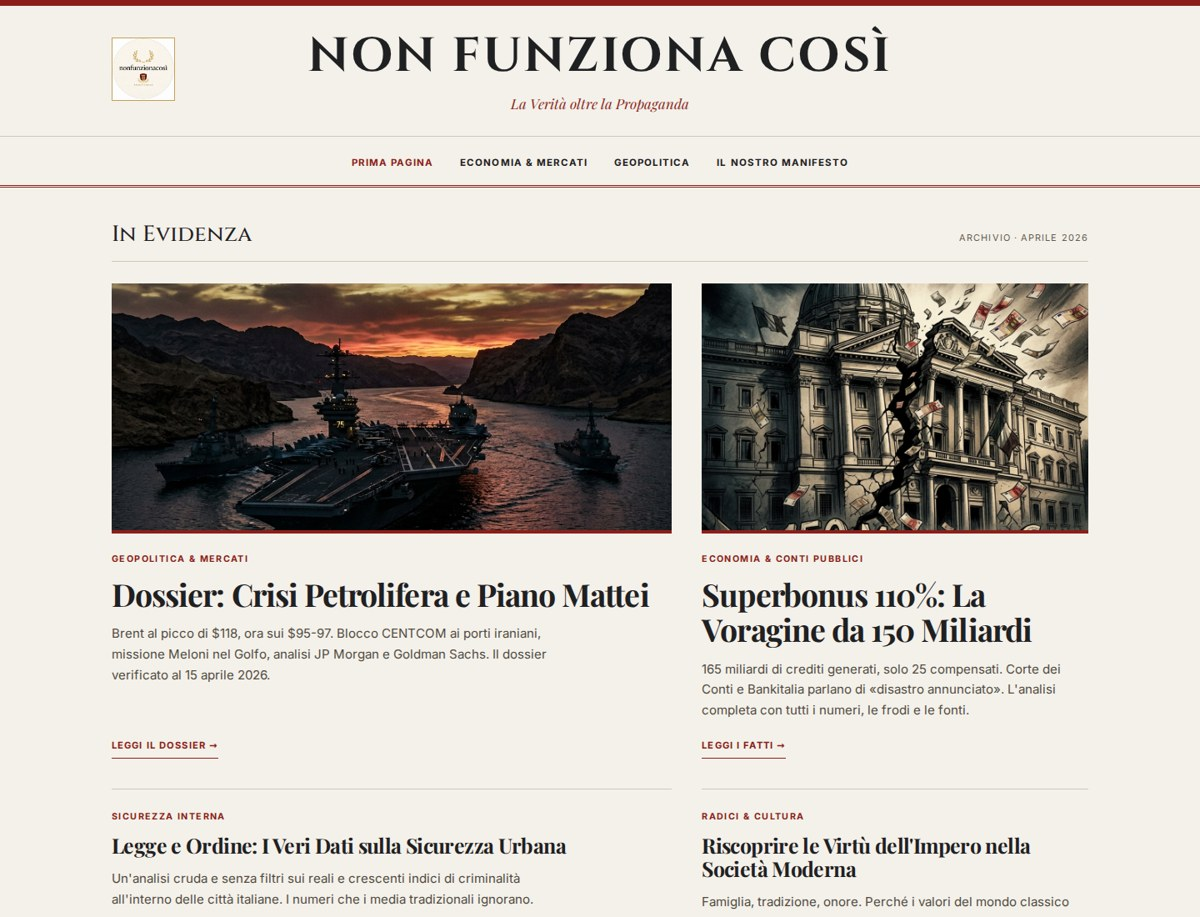
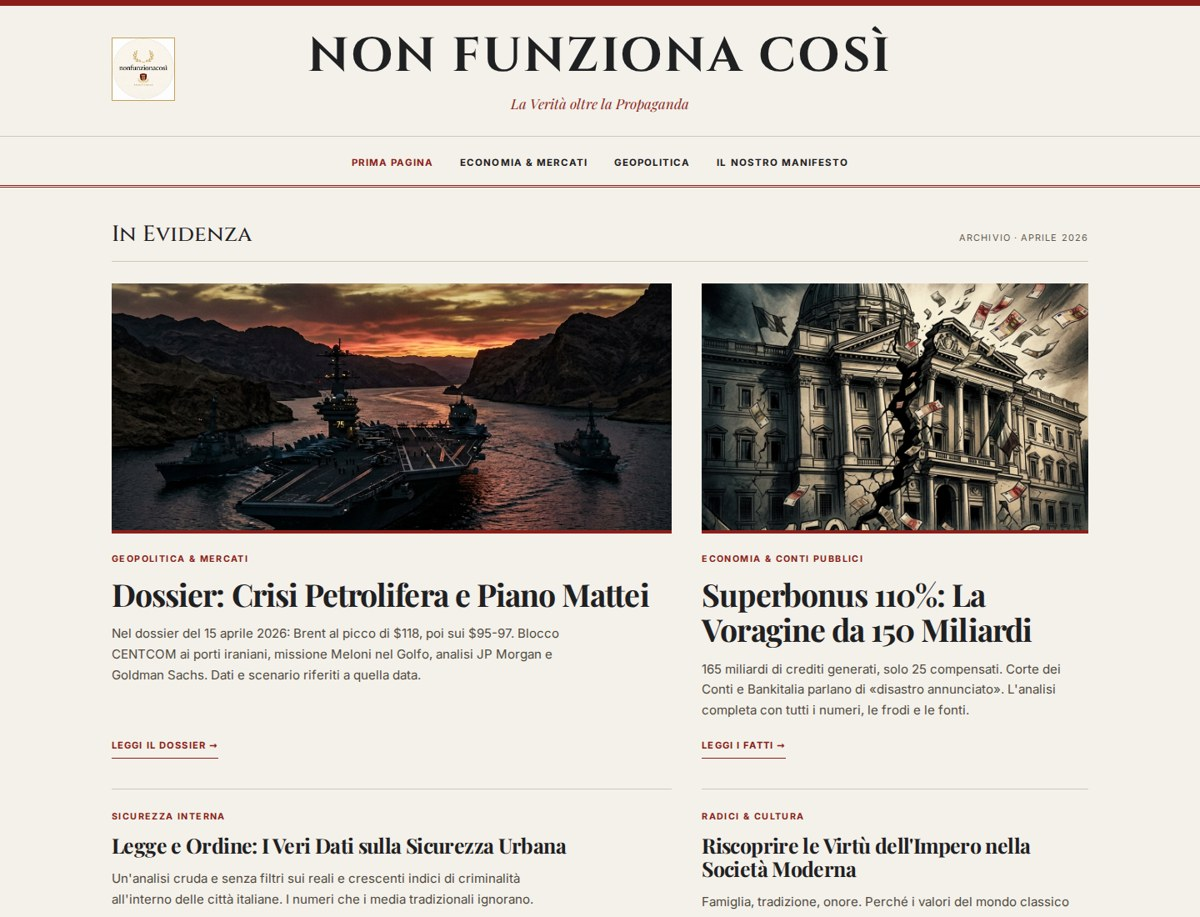
Chiarisce l'archivio e protegge la cronologia ripulita
Segnala il contesto di aprile senza modificare articoli o manifesto. Corregge il titolo del dossier tagliato su mobile, verifica la storia contro la reintroduzione del PDF e fissa Ubuntu 24.04. Documenta i limiti della rimozione e le copie residue su GitHub.

Changed region(s): [[0.0925, 0.6718, 0.4625, 0.7634]]

diff --git a/articoli/petrolio_wti/index_petrolio.html b/articoli/petrolio_wti/index_petrolio.html
@@ -5,7 +5,7 @@
     <meta http-equiv="Content-Security-Policy" content="default-src 'none'; script-src 'self'; script-src-attr 'none'; style-src 'self'; style-src-attr 'none'; img-src 'self'; font-src 'self'; connect-src 'none'; object-src 'none'; base-uri 'none'; form-action 'none'; frame-src 'none'; worker-src 'none'; manifest-src 'none'">
     <meta name="referrer" content="strict-origin-when-cross-origin">
     <meta name="viewport" content="width=device-width, initial-scale=1.0">
-    <meta name="description" content="Dossier verificato al 15 aprile 2026. Brent picco a $118 (fine marzo), oggi a $95-97. Blocco USA vs caos iraniano: la differenza che cambia tutto. Missione Meloni nel Golfo. Piano Mattei. Analisi JP Morgan e Goldman Sachs.">
+    <meta name="description" content="Dossier d'archivio del 15 aprile 2026. Brent al picco di $118 a fine marzo, poi a $95-97 alla data del dossier. Blocco USA, missione Meloni nel Golfo, Piano Mattei, analisi JP Morgan e Goldman Sachs nel contesto dell'epoca.">
     <title>Dossier: Petrolio, Blocco Hormuz e Piano Mattei — 15 Aprile 2026 | Non Funziona Così</title>
     <link rel="stylesheet" href="../../assets/css/shared.css">
     <link rel="stylesheet" href="../../assets/css/petrolio.css">
@@ -25,12 +25,17 @@
     </div>
 </header>
 
-<!-- ===== LIVE STRIP ===== -->
+<aside class="archive-notice" aria-label="Nota di archivio">
+    <strong>Articolo d'archivio · 15 aprile 2026.</strong>
+    Prezzi, dati e scenario geopolitico si riferiscono a quella data. Il testo originale è conservato; le quotazioni non sono aggiornate in tempo reale.
+</aside>
+
+<!-- ===== HISTORICAL DATA STRIP ===== -->
 <div class="live-strip">
-    🔴 AGGIORNATO IN TEMPO REALE — 15 Aprile 2026 &nbsp;|&nbsp;
+    DATI AL 15 APRILE 2026 &nbsp;|&nbsp;
     Brent: <span class="brent-val">~$95–97/bbl</span> &nbsp;|&nbsp;
     WTI: <span class="brent-val">~$91/bbl</span> &nbsp;|&nbsp;
-    Blocco navale CENTCOM porti iraniani: <span class="brent-val">ATTIVO</span>
+    Blocco navale CENTCOM porti iraniani: <span class="brent-val">ATTIVO A QUELLA DATA</span>
 </div>
 
 <!-- ===== MAIN ===== -->

diff --git a/pagine/home.html b/pagine/home.html
@@ -50,7 +50,7 @@
                     <div class="article-content">
                         <span class="article-category">Geopolitica & Mercati</span>
                         <h3 class="article-title"><a href="../articoli/petrolio_wti/index_petrolio.html" class="article-link"><span class="headline-symbol" aria-hidden="true">🛢</span> Dossier: Crisi Petrolifera e Piano Mattei</a></h3>
-                        <p class="article-excerpt">Brent al picco di $118, ora sui $95-97. Blocco CENTCOM ai porti iraniani, missione Meloni nel Golfo, analisi JP Morgan e Goldman Sachs. Il dossier verificato al 15 aprile 2026.</p>
+                        <p class="article-excerpt">Nel dossier del 15 aprile 2026: Brent al picco di $118, poi sui $95-97. Blocco CENTCOM ai porti iraniani, missione Meloni nel Golfo, analisi JP Morgan e Goldman Sachs. Dati e scenario riferiti a quella data.</p>
                         <a href="../articoli/petrolio_wti/index_petrolio.html" class="read-more" aria-label="Leggi il dossier completo sul petrolio e Piano Mattei">Leggi il Dossier &rarr;</a>
                     </div>
                 </article>
@@ -143,10 +143,10 @@
 
     <!-- ===== NEWS TICKER ===== -->
     <div class="news-ticker">
-        <span class="ticker-label">⚡ Flash</span>
+        <span class="ticker-label">Archivio · Aprile 2026</span>
         <span class="ticker-content">
             <span>Superbonus 110%: il buco nero da 150 miliardi che nessuno vuole raccontare</span>
-            <span>Brent al picco di 118$, ora sui 95-98$ tra le minacce di Trump: scatta il blocco navale e i media tacciono</span>
+            <span>Aprile 2026: Brent al picco di 118$, poi sui 95-98$ tra le minacce di Trump; l'avvio del blocco navale raccontato nell'archivio</span>
             <span>Debito pubblico italiano oltre i 3.000 miliardi: servono risposte, non slogan</span>
             <span>Lotta alla disinformazione: i numeri che smontano la propaganda</span>
             <span>Non Funziona Così — la nuova voce del giornalismo indipendente italiano</span>

diff --git a/assets/css/shared.css b/assets/css/shared.css
@@ -263,6 +263,12 @@
 *, *::before, *::after { box-sizing: border-box; margin: 0; padding: 0; }
 html { scroll-padding-top: 7rem; }
 body { font-family: var(--font-ui); -webkit-font-smoothing: antialiased; }
+.archive-notice {
+    background: var(--parchment); color: var(--dark-slate);
+    border-bottom: 2px solid var(--imperial-gold); padding: 18px max(20px, calc((100% - 1120px) / 2));
+    font: 400 .9rem/1.6 var(--font-ui);
+}
+.archive-notice strong { display: block; color: var(--roman-red); margin-bottom: 4px; }
 img { max-width: 100%; height: auto; }
 button, input { font: inherit; }
 a { text-underline-offset: .2em; }

diff --git a/assets/css/petrolio.css b/assets/css/petrolio.css
@@ -84,15 +84,15 @@ main { padding: 30px 16px 0; }
 .dossier-hero {
     position: relative;
     width: 100%;
-    height: clamp(260px, 48vw, 450px);
+    min-height: clamp(260px, 48vw, 450px);
+    display: flex;
     background-image: url('../../articoli/petrolio_wti/images/wti_hero_cover.png');
     background-size: cover;
     background-position: center;
     overflow: hidden;
 }
 .hero-overlay {
-    position: absolute;
-    inset: 0;
+    width: 100%;
     background: linear-gradient(to top, rgba(31,32,34,1) 0%, rgba(31,32,34,.65) 55%, transparent 100%);
     display: flex;
     flex-direction: column;

diff --git a/articoli/superbonus_110/index_superbonus.html b/articoli/superbonus_110/index_superbonus.html
@@ -26,6 +26,11 @@
         </div>
     </header>
 
+    <aside class="archive-notice" aria-label="Nota di archivio">
+        <strong>Articolo d'archivio · aprile 2026.</strong>
+        Testo, dati e fonti conservano il contesto dell'epoca e non rappresentano un aggiornamento della situazione attuale.
+    </aside>
+
     <div class="hero-image">
         <img src="images/hero_superbonus.png" alt="Illustrazione del disastro finanziario del Superbonus 110%">
         <div class="hero-overlay"></div>

diff --git a/scripts/check_history.py b/scripts/check_history.py
@@ -1,0 +1,35 @@
+#!/usr/bin/env python3
+"""Prevent reintroducing the removed PDF, including through an old branch merge."""
+from pathlib import Path
+import subprocess
+import sys
+
+ROOT = Path(__file__).resolve().parents[1]
+REMOVED_PATH = 'Apri_Trading_in_the_Zone.pdf'
+REMOVED_BLOB = 'f1297c62a800a2bb74b2c15130f1f3f0668a0d32'
+
+
+def check_history(refs=('--all',)):
+    shallow = subprocess.run(['git', 'rev-parse', '--is-shallow-repository'], cwd=ROOT,
+                             text=True, capture_output=True, check=True)
+    if shallow.stdout.strip() == 'true':
+        raise ValueError('A complete clone is required to inspect history.')
+    result = subprocess.run(['git', 'rev-list', '--objects', *refs], cwd=ROOT,
+                            text=True, capture_output=True, check=True)
+    for line in result.stdout.splitlines():
+        oid, _, path = line.partition(' ')
+        if oid == REMOVED_BLOB or Path(path).name == REMOVED_PATH:
+            return False
+    return True
+
+
+if __name__ == '__main__':
+    try:
+        clean = check_history()
+    except (subprocess.CalledProcessError, ValueError):
+        print('ERROR: Git history unavailable; use a complete clone.', file=sys.stderr)
+        sys.exit(1)
+    if not clean:
+        print('ERROR: removed PDF reachable in Git history. Do not merge an old clone or branch.', file=sys.stderr)
+        sys.exit(1)
+    print('OK: removed PDF absent from all locally available Git refs (path and blob).')

diff --git a/docs/pulizia-cronologia-2026-10-23.md b/docs/pulizia-cronologia-2026-10-23.md
@@ -1,0 +1,99 @@
+# Cronologia e archivio — 23 ottobre 2026
+
+## Rimozione del PDF
+
+Su richiesta esplicita del proprietario è stata riscritta la parte della storia
+che conteneva `Apri_Trading_in_the_Zone.pdf`. L'inventario completo comprendeva
+40 commit: il file compariva in due alberi, senza altri percorsi per lo stesso
+blob. Tre commit sono stati ricostruiti con le API Git di GitHub; i 37 precedenti
+sono rimasti invariati. Non sono stati installati strumenti o plugin aggiuntivi.
+
+| Commit precedente | Corrispondente ripulito |
+| --- | --- |
+| `230281e` | `01d97d2a2330ed73352e477d5f02a05345382a1e` |
+| `a52ff7e` | `336b8e56ca434c26285ea4e6164cd2b003aeafae` |
+| `abedef3` | `b17edbe614bf16363fd630535a047d9045552cbc` |
+
+I primi due alberi differiscono esclusivamente per la rimozione del PDF.
+L'albero del terzo è identico a quello già revisionato di `abedef3`. Le date dei
+commit ricostruiti registrano la ricostruzione; non cambiano le date editoriali.
+Prima di modificare i riferimenti remoti è stata verificata una copia di recupero
+locale, esterna al repository pubblico. Gli aggiornamenti forzati dei soli due
+rami interessati hanno usato gli SHA precedenti come condizione, per evitare
+di sovrascrivere eventuali modifiche concorrenti.
+
+La PR precedente è stata chiusa, dopo aver aggiornato anche il suo ramo alla
+storia pulita. I riferimenti pubblicizzati sono stati ricontrollati: i tre
+rami e `refs/pull/1/head` puntavano alla storia pulita; non erano presenti tag.
+Il riferimento temporaneo `refs/pull/1/merge` non era più pubblicizzato dopo
+la chiusura. Il lavoro prosegue su `codex/archivio-sicuro-2026-10-23`.
+
+Questo intervento elimina il PDF dalla storia raggiungibile dei rami controllati.
+Non certifica la cancellazione fisica degli oggetti Git conservati da GitHub,
+delle viste memorizzate, dei vecchi URL di commit, dei fork o dei cloni altrui.
+GitHub documenta questi limiti e precisa che il servizio di rimozione dei dati
+sensibili non è garantito per contenuti non sensibili. Non è stata inviata una
+segnalazione legale o una richiesta al supporto per conto del proprietario.
+
+La verifica HTTP del 23 ottobre ha restituito 404 per il PDF sul ramo `main`
+e sul sito Pages, ma 200 per il vecchio URL raw basato sul commit originario.
+Quindi una copia residua era ancora scaricabile su GitHub dopo la riscrittura:
+la pulizia dei riferimenti Git non va descritta come cancellazione completa.
+
+Per evitare ricomparse, il percorso è escluso da `.gitignore` e la CI esegue
+`scripts/check_history.py`: controlla il nome del file e il blob noto su tutti
+i riferimenti Git locali, anche se il PDF è stato cancellato nell'ultimo commit.
+I cloni superficiali vengono rifiutati. Un test sul vecchio ramo ha confermato
+il fallimento; lo stesso controllo passa sulla storia ricostruita.
+
+Chi possiede un clone precedente deve crearne uno nuovo, evitando merge o push
+dei vecchi rami. Il piano editoriale e `wyckoff_wti_v2.pdf` restano pubblici:
+non erano oggetto della richiesta di rimozione.
+
+## Contesto storico degli articoli
+
+Articoli e manifesto mantengono integralmente il testo principale e le fonti:
+`tests/content-baseline.json` è invariato. Nei dossier è stata aggiunta una
+nota di archivio esterna al `main`, che chiarisce la data e l'assenza di
+aggiornamenti in tempo reale. La fascia del petrolio e la sua descrizione per
+i motori di ricerca sono state rese esplicitamente storiche. Home e ticker
+non presentano più prezzi e blocco navale di aprile come eventi attuali.
+
+La cronologia del testo conferma gli ultimi cambiamenti editoriali dei dossier
+al 15 aprile 2026. Il Superbonus conserva la data di pubblicazione dell'8 aprile;
+il petrolio conserva quella del 15 aprile e l'orario dell'aggiornamento dati.
+Non sono state aggiornate quotazioni, analisi, previsioni o conclusioni.
+
+Per entrambi i dossier la sitemap omette i campi facoltativi `lastmod` e
+`changefreq`: l'aggiornamento del frontend non viene presentato come una nuova
+revisione dei dati. La home riporta `lastmod` al 23 ottobre, perché i suoi
+riepiloghi sono stati effettivamente modificati. Le altre date restano invariate.
+
+## Verifica visiva e controlli
+
+La verifica a 390 px ha rilevato un titolo del dossier petrolio tagliato
+verticalmente: l'overlay assoluto era più alto della copertina ad altezza fissa.
+La copertina ora cresce con il contenuto, mantenendo un'altezza minima. Un nuovo
+controllo browser verifica che badge, titolo e sottotitolo stiano interamente
+nel contenitore a 320, 390, 768 e 1440 px. Questa verifica integra i precedenti
+controlli dell'overflow orizzontale, che non rilevavano quel difetto.
+
+Il runner della CI è fissato a `ubuntu-24.04`. Restano verificati cinque documenti
+HTML, policy, font locali e relative licenze, collegamenti, sintassi JavaScript,
+contenuti protetti, cronologia e differenze di whitespace. Le 16 combinazioni
+pagina/larghezza sono testate localmente con Chromium e Playwright già presenti,
+compresi font, tastiera, fallback senza JavaScript e blocchi CSP.
+
+Le anteprime mobili sono in `anteprima-home-mobile.jpg` e
+`anteprima-petrolio-mobile.jpg`. Il test browser resta esterno alla CI minimale.
+
+Le impostazioni amministrative di ruleset, Pages, autenticazione e recupero
+sono distinte da queste verifiche del codice. Il connettore usato non espone
+le relative modifiche amministrative; il pannello web richiede l'accesso
+all'account del proprietario.
+
+Fonti:
+
+- [GitHub: rimozione di dati dalla cronologia e limiti delle copie residue](https://docs.github.com/en/authentication/keeping-your-account-and-data-secure/removing-sensitive-data-from-a-repository).
+- [Google Search Central: lastmod e aggiornamenti significativi](https://developers.google.com/search/docs/crawling-indexing/sitemaps/build-sitemap).
+- [Protocollo Sitemap: campi facoltativi](https://www.sitemaps.org/protocol.html).

diff --git a/README.md b/README.md
@@ -16,6 +16,7 @@ Sito editoriale statico pubblicato su GitHub Pages. HTML, CSS e JavaScript nativ
 | `assets/css/petrolio.css`, `superbonus.css` | Componenti specifici dei dossier |
 | `assets/js/carousel.js` | Navigazione manuale e accessibile dei banner |
 | `scripts/check_site.py` | Verifiche offline senza dipendenze esterne |
+| `scripts/check_history.py` | Rifiuto del PDF rimosso nei riferimenti Git disponibili |
 | `tests/content-baseline.json` | Impronte del contenuto originale e collegamenti preservati |
 | `docs/revisione-sicurezza-2026-10-22.md` | Analisi, fonti, limiti e interventi amministrativi |
 
@@ -35,6 +36,7 @@ Non modificare la sorgente Pages per provare il ramo di lavoro.
 
 ```bash
 python scripts/check_site.py
+python scripts/check_history.py
 node --check assets/js/carousel.js
 git diff --check
 git diff --check origin/main...HEAD
@@ -43,7 +45,8 @@ git diff --check origin/main...HEAD
 Il primo controllo del diff riguarda le modifiche non ancora in stage; il
 secondo confronta i commit del ramo con `origin/main` (aggiornare prima i ref).
 La pipeline `Site checks` parte sulle PR e sui push a `main`, senza installare
-pacchetti. Scarica la cronologia per controllare gli spazi nel diff tra la base
+pacchetti, sul runner `ubuntu-24.04`. Scarica la cronologia completa per
+controllare l'assenza del PDF rimosso e gli spazi nel diff tra la base
 della PR e il commit verificato, oppure tra il commit precedente e quello del
 push a `main`. Non usa il diff vuoto del checkout pulito.
 La sola GitHub Action usata è `actions/checkout`, fissata al commit completo,
@@ -80,8 +83,10 @@ JavaScript locali e registrare gli URL nella sitemap. Evitare stili e gestori
 JavaScript inline. Non inserire chiavi, token, file privati o credenziali nel
 repository: tutti i file del repository pubblico sono consultabili.
 `lastmod` nella sitemap indica l'ultima modifica significativa della pagina,
-anche tecnica; non sostituisce la data editoriale del testo. Le cinque pagine
-sono state aggiornate il 22 ottobre 2026 per policy, stili e struttura.
+non la data di pubblicazione. Per i due articoli d'archivio il campo facoltativo
+è omesso: il refactoring non aggiorna prezzi, dati o notizie. Le date originali
+restano nel testo; una nota esterna al corpo dell'articolo chiarisce il contesto
+storico. Home e ticker presentano esplicitamente l'archivio di aprile 2026.
 
 I font si caricano esclusivamente dal sito con `font-src 'self'`. Provenienza,
 licenze e impronte sono descritte in `assets/fonts/README.md`; il controllo
@@ -110,6 +115,12 @@ Riferimenti: [tecniche](https://refactoring.guru/refactoring/techniques),
 [Extract Method](https://refactoring.guru/extract-method).
 
 ## Rilascio e ripristino
+
+Dopo la riscrittura della cronologia del 23 ottobre 2026, creare un clone nuovo.
+Non integrare vecchi rami nella nuova storia: un merge potrebbe reintrodurre
+il PDF già rimosso. `check_history.py` controlla percorso e identificativo del
+blob su tutti i riferimenti Git locali e rifiuta i cloni superficiali. Questo
+controllo non verifica cache GitHub, fork o riferimenti remoti non scaricati.
 
 Esaminare la pull request e i controlli prima di integrare in `main`.
 L'integrazione potrebbe attivare la pubblicazione Pages già configurata.

diff --git a/SECURITY.md b/SECURITY.md
@@ -20,6 +20,8 @@ permessi di scrittura e può modificare anche la policy.
 - `base-uri 'none'` e politica del referrer.
 - `noopener noreferrer` sui collegamenti aperti in nuove schede.
 - Controlli offline di policy, contenuti, font e collegamenti su ogni PR e push a `main`.
+- Controllo della cronologia completa per impedire la reintroduzione del PDF
+  rimosso attraverso un vecchio ramo; percorso escluso anche da `.gitignore`.
 - Action ufficiale fissata a SHA, token `contents: read`, nessun segreto usato.
 
 ## Controlli dell'account e dell'hosting

diff --git a/docs/revisione-sicurezza-2026-10-22.md b/docs/revisione-sicurezza-2026-10-22.md
@@ -1,5 +1,11 @@
 # Revisione di sicurezza e manutenibilità — 22 ottobre 2026
 
+Questo documento registra gli interventi del 22 ottobre. Per la successiva
+riscrittura della cronologia, le note di archivio, la sitemap e la correzione
+del titolo su mobile, vedere [l'aggiornamento del 23 ottobre](pulizia-cronologia-2026-10-23.md).
+Le indicazioni sul PDF ancora nei rami e sulle formulazioni della home descrivono
+lo stato precedente a quell'intervento.
+
 ## Esito
 
 Il progetto esaminato è un sito statico: cinque documenti HTML, CSS incorporati
